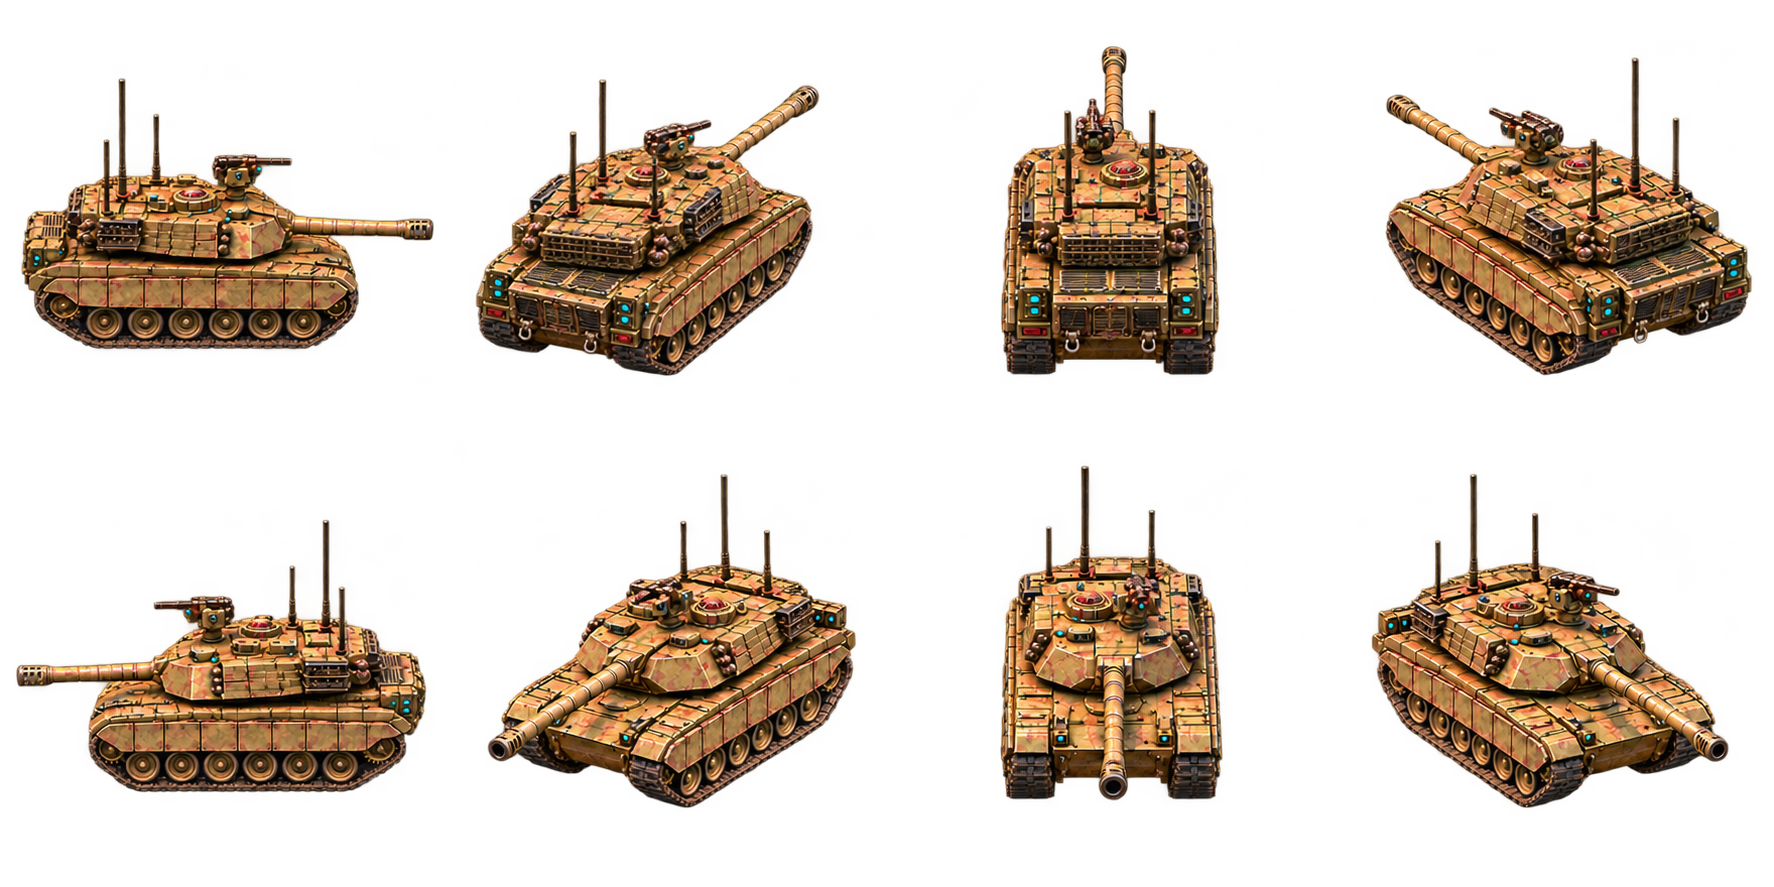
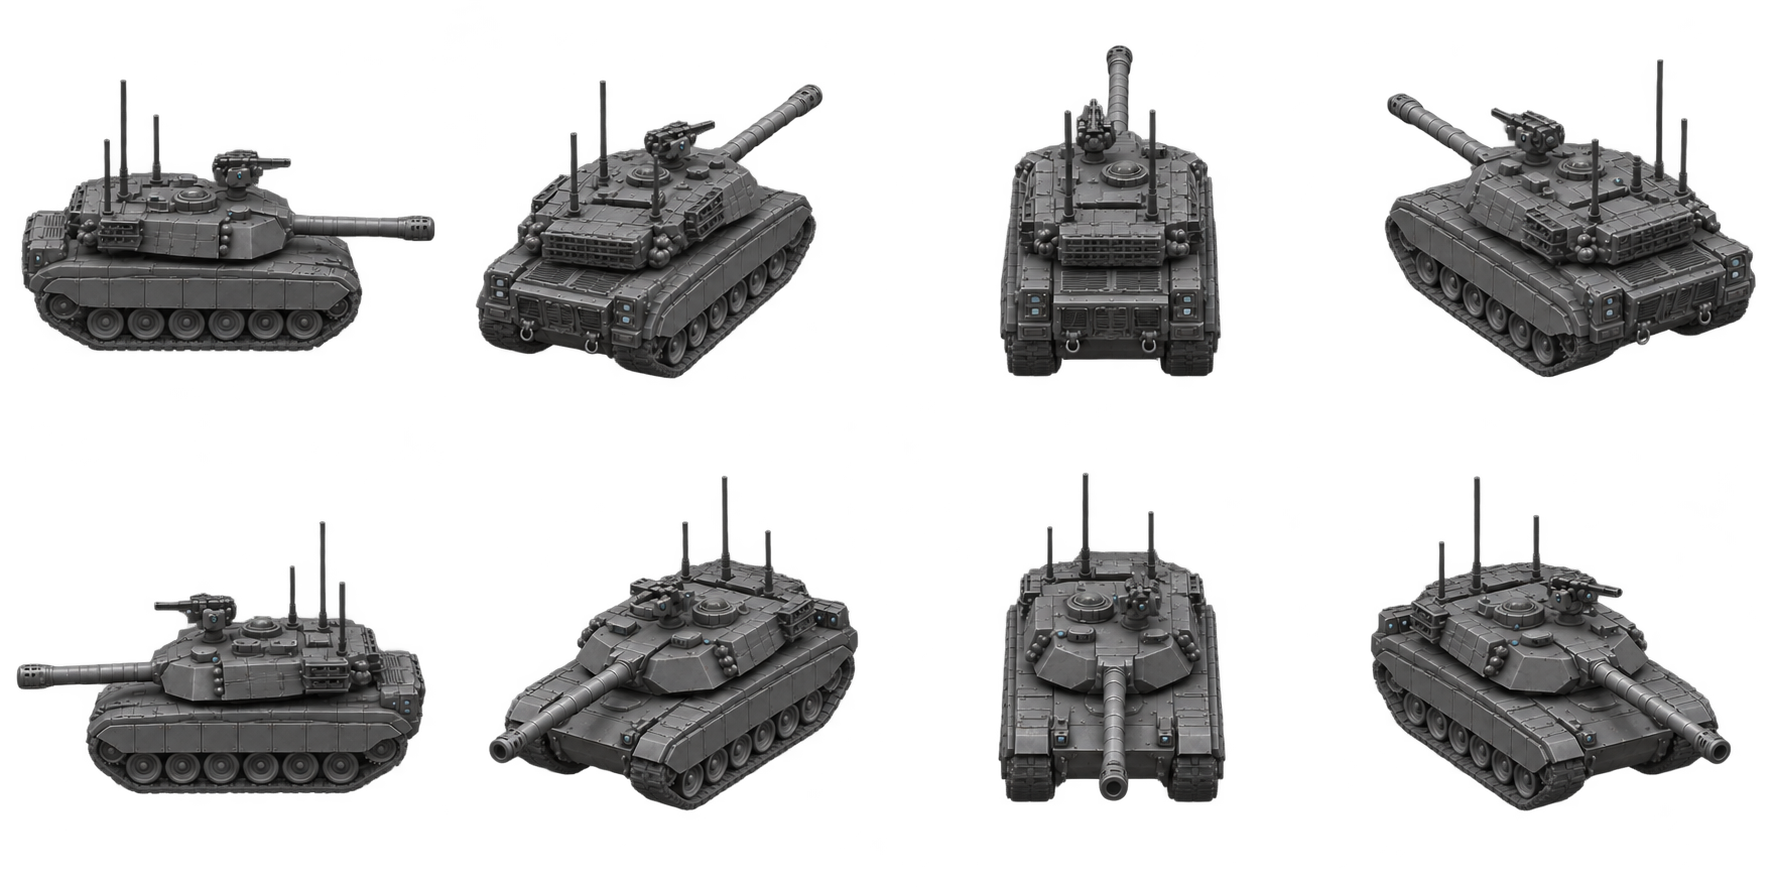
v6.22: 统一石墨灰坦克兵模并移除雾形描边

diff --git a/DesertFrontline/GameScene.swift b/DesertFrontline/GameScene.swift
@@ -1625,7 +1625,7 @@ final class GameScene: SKScene {
             r == 1 && g == 1 && b == 1 && a == 1
         let clear = node.strokeColor.cgColor.alpha == 0
         return ["parent": node.parent === fogLayer, "position": node.position == tileCenter(tile),
-                "path": node.path?.boundingBoxOfPath == bounds, "raster": !node.isAntialiased,
+                "path": node.path?.boundingBoxOfPath == bounds, "raster": !node.isAntialiased && node.lineWidth == 0,
                 "transform": node.xScale == 1 && node.yScale == 1 && node.zRotation == 0 && node.alpha == 1,
                 "color": white && clear,
                 // SpriteKit stores depth with finite precision; 0.001 is much
@@ -1639,7 +1639,7 @@ final class GameScene: SKScene {
         guard let (tile, node) = sample else { return [:] }
         let bounds = node.path?.boundingBoxOfPath ?? .zero
         return ["tile": [tile.row, tile.col], "checks": ciFogFeatherGeometry(tile, node: node),
-                "bounds": [bounds.minX, bounds.minY, bounds.width, bounds.height],
+                "bounds": [bounds.minX, bounds.minY, bounds.width, bounds.height], "lineWidth": node.lineWidth,
                 "position": [node.position.x, node.position.y], "scale": [node.xScale, node.yScale],
                 "depth": [node.zPosition, zPosition(for: tileCenter(tile)) + 1000.1],
                 "strictDepthMatch": node.zPosition == zPosition(for: tileCenter(tile)) + 1000.1,
@@ -1651,7 +1651,7 @@ final class GameScene: SKScene {
         return ["sharedEdges": fogNodes.count == rows * cols && fogNodes.allSatisfy { tile, fog in
                     fog.path?.boundingBoxOfPath == bounds && fog.position == tileCenter(tile)
                 },
-                "rasterEdges": fogNodes.values.allSatisfy { !$0.isAntialiased },
+                "rasterEdges": fogNodes.values.allSatisfy { !$0.isAntialiased && $0.lineWidth == 0 },
                 "opacity": fogNodes.allSatisfy { tile, fog in
                     let expected: CGFloat = visibleTiles.contains(tile) ? 0 : (exploredTiles.contains(tile) ? 0.48 : 0.86)
                     return abs(fog.alpha - expected) < 0.0001
@@ -2137,6 +2137,7 @@ final class GameScene: SKScene {
                 fog.position = center
                 fog.fillColor = UIColor.black
                 fog.strokeColor = .clear
+                fog.lineWidth = 0
                 fog.alpha = 0.86
                 fog.zPosition = zPosition(for: center) + 1000
                 fogLayer.addChild(fog)
@@ -6856,7 +6857,7 @@ final class GameScene: SKScene {
         if let kind = action.buildKind, let texture = productionArtworkTexture(for: kind) {
             let preview = SKSpriteNode(texture: texture)
             preview.name = "hud:production-preview:\(kind.shortCode)"
-            let height: CGFloat = directionalGroundKinds.contains(kind) ? 30 : 24
+            let height: CGFloat = kind.domain == .land ? 30 : 24
             let scale = min(36 / max(texture.size().width, 1), height / max(texture.size().height, 1))
             preview.size = CGSize(width: texture.size().width * scale, height: texture.size().height * scale)
             preview.position.y = frame.height < 48 ? 10 : 12
@@ -14276,6 +14277,7 @@ final class GameScene: SKScene {
                 node.name = "fog:inward-feather"
                 node.fillColor = .white
                 node.strokeColor = .clear
+                node.lineWidth = 0
                 node.isAntialiased = false
                 node.position = tileCenter(tile)
                 node.zPosition = zPosition(for: node.position) + 1000.1

diff --git a/update_log.md b/update_log.md
@@ -6541,3 +6541,17 @@ v6.9 官方复核（2026-11-09）：main `b096db605b190119cc9acc05e48b194d6ac683
 - 用白色RGBA/零alpha语义替代UIColor对象色彩空间相等，深度比较误差<0.001（保留0.1层间距）；位置/path/raster/transform/texture/可见性等合同保持。新增逐字段实际几何、实际/预期深度与旧严格比较诊断，以新云端证据确认具体失败项，不仅据推测宣称修复通过。
 - PNG alpha计数与主体边界改用byte table的C层translate/count/find，五filter复原、CRC、阈值、资源报告格式与source/bundle一致性不变。新增跨8/9、31/32、199/200阈值的五filter精确计数和边界合同；不增加workflow预算、不削减测试。
 - v6.20 run42735577098已通过static约111秒、generic约38秒，模拟器仍运行；新地表原生结果待收取。本文修复另用新SHA完整云端与官方包验证，本机只AST/diff，未编译/运行/回归。
+
+
+## v6.21 最终云端复核
+
+- main精确SHA fc877dd9ef9fde96d4fd9902ae088fdf82a7bd05，run42736566132/attempt1/artifact13728062908；ZIP81078196bytes/183项，digest1059c4423528389d99cfb553d1230464c2e9b52355d6691851bf9d371484441b。未加密/CRC、branch/SHA/run/attempt/version、manifest/JUnit/双build/原日志与PNG摘要已复核，证据/private/tmp/desert-frontline-review-42736566132-attempt1/。
+- 125脚本合同与10资源方法、37source=bundle、25HUD/50详情及恢复、连续地表3483×1742/720格/33岸/两材质mask255、单位/迷雾合同、24正式独立PNG通过；ready最大7648/8000，work976.794/cleanup10.878。JUnit10/0failure/1准确XCTest skip。37项资源报告与优化前v6.20精确一致。
+- 原生几何诊断确认旧严格比较两项均false：depth1036.6500244140625 vs1036.65，UIColor对象比较不同；RGBA/零alpha语义与0.001深度检查均true。不是Swift编译死锁。保留一次Build screenshot首超时、完整owned CLI回收、同设备/PID/nonce/ready恢复，总169.185466/180秒成功，不冒称零失败stage。
+- 全24官方原图逐张目视：连续细沙/深青海面、分层HUD与文字、命令marker、陆海空模型/战损/水柱完整，无黑屏/缺层/系统通知；仍有细亮雾格边线、硬岸线轮廓和简陋环境小物。未覆盖真实触控、完整对局/SKRM或长期FPS，整体复刻未完成。
+
+## v6.22 石墨灰坦克与雾形描边（待云端）
+
+- 两次内置模型编辑选定石墨灰坦克八向与同风格SE单图，原样复制用户目录1与项目；提示词和实际逐格边界见md/art/v6.22-generation-prompts.json。去除旧铜黄/红色彩边，运行时74世界格/锚点/八向/迟滞/镜像/数值保留，陆军生产预览高度统一30。
+- 根据v6.21正式图的细亮雾格边线，将基础雾与羽化shape默认描边宽度显式设0，并使原生raster合同严格要求该属性；不改原path/alpha/集合或隐藏逻辑。实际细线变化待同run正式图，不先称已消线。
+- 本机仅diff/AST/JSON/资源元数据/摘要与文档链接，未编译/运行/测试或开子智能体。新SHA双构建、37资源、HUD/坦克方向/雾层与24正式图待云端复核。

diff --git a/md/art/v6.22-tank-coherence.md b/md/art/v6.22-tank-coherence.md
@@ -1,0 +1,16 @@
+# 坦克材质一致性
+
+内置 `image_gen` 对原坦克八方向图集进行一次模型编辑，以已使用的侦察车图集为材质参考，保留八向顺序、完整炮口、履带和摄像机高度，改为哑光石墨灰装甲。随后用内置模型提取同风格SE单图，供生产预览和原单幅兜底。共两次模型调用，没有使用其他修图工具；完整原始提示词、参考路径、源文件和实际逐格边界见[生成记录](v6.22-generation-prompts.json)。
+
+| 资源 | 格式/尺寸 | SHA256 |
+| --- | --- | --- |
[2 lines of base64/hex data omitted]
+
+最终原图逐字节保存用户目录 `/Users/a114514/.codex/generated_images/1/v6.22-tank-eight-graphite.png` 与 `v6.22-tank-graphite.png`，并复制到上述项目位置。实际alpha≥32的最小格边距为8px，非18px；八格主体均完整，格角透明。没有脚本抠图、缩放重采样或补画。原素材保存在Git历史与本轮基线备份。
+
+运行时保留原八向UV、1536px解码、74世界格、(0.5,0.25)锚点、父镜像补偿、朝向迟滞、战损/选择/迷雾/死亡/SKRM链路。只将陆军生产缩略图高度上限统一为30（海空仍24）；没有改单位数值、方向规则、生产来源或命令。资源总数仍37，沿用逐格RGBA/不同alpha摘要和坦克原生八向/两镜像/几何/恢复合同。
+
+本轮还将基础雾与羽化形状的默认描边宽度显式设为0，原生raster检查同时要求无抗锯齿且lineWidth=0；其余几何、0/.48/.86基础alpha、可见性集合与敌方隐藏保持。是否减少实际细亮格线需要同run正式PNG核实，不能以CPU属性通过替代目视。
+
+本文只说明资源与运行时事实；精确提交/run、双构建和正式原图结论见[更新记录](../../update_log.md)。连续沙海来源见[地表说明](v6.20-continuous-terrain.md)，其余陆军来源见[陆军图集](v6.18-ground-directions.md)。静态八方向不代表独立炮塔/履带动画或持续帧率验证。

diff --git a/md/test/test.md b/md/test/test.md
@@ -648,3 +648,6 @@ HUD分类使用单标题时，原生ready的hudText必须为single-title-tabs-v1
 
 
 连续地表改动须核对两项显式RGB8材质与原RGBA兵模的独立格式合同，37项source/bundle的CRC/尺寸/摘要，保留五类PNG filter正例及损坏/单色/格式负例。ready的terrainSurface为7项数组：continuous-terrain-v1、实际像素宽高、真实格数、岸数、材质2、八项mask255；逐项拒绝布尔/浮点冒充、缺项、超4096px/比例错误、格/岸数错误、缺材质或mask缺位/溢出。原生mask取实际地表节点/纹理/几何、有界材质解码、烘焙alpha中心与共享边/透明角、陆水掩模、当前地形快照和岸线，不用文件存在替代真实挂载。原25HUD/50详情、单位/迷雾合同与24正式PNG保留；共享渲染变更按原生地图、五页、陆海空图逐张确认接缝、层级与文字。CPU/像素合同不代替实际GPU、触控或长期性能。
+
+
+雾层栅格样式改变时，原生基础雾rasterEdges与羽化几何raster还检查实际lineWidth=0，保留精确path/位置、颜色语义、深度误差、alpha、纹理/像素/边缘组合及原可见性门槛；正式图按固定1.0和0.6相机样本查看雾格细线，不能把属性检查等同于细线已消失。坦克换图沿用原八向/镜像/几何/恢复与逐格alpha合同，并核对Build页生产图和地战/战损原生PNG的完整模型与一致材质。

diff --git a/README.md b/README.md
@@ -303,3 +303,6 @@ Scouts, artillery, mobile anti-air vehicles and repair trucks now use original g
 ### Continuous battlefield materials
 
 The terrain renderer uses original fine sand and deep teal water across a single continuous world canvas, with water-clipped shallow bands and broken foam along actual shores. Roads, oil stains, scenery and fog retain the existing game map. The command console uses shaded slate surfaces, resource separators and warm gold primary actions; the five pages and 44pt controls keep their existing commands. Artwork provenance: [continuous terrain](md/art/v6.20-continuous-terrain.md).
+
+
+Tank artwork uses a coherent graphite-gray eight-direction model and matching production preview, alongside the existing scout/artillery/AA/repair assets. Land production thumbnails share a 30pt height cap. Provenance: [tank materials](md/art/v6.22-tank-coherence.md).
